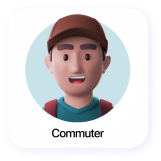
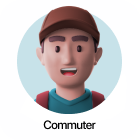
neumorphic account identifier

Changed region(s): [[0.1143, 0.0286, 0.8857, 0.9429]]

diff --git a/trackngo/lib/authentication/signup_screen.dart b/trackngo/lib/authentication/signup_screen.dart
@@ -1,4 +1,6 @@
 import 'package:flutter/material.dart';
+import 'package:trackngo/tabPages/home_tab.dart';
+import 'package:flutter_neumorphic/flutter_neumorphic.dart';
 
 class SignUpScreen extends StatefulWidget {
   const SignUpScreen({super.key});
@@ -10,6 +12,7 @@ class SignUpScreen extends StatefulWidget {
 class _SignUpScreenState extends State<SignUpScreen> {
   TextEditingController _emailController = TextEditingController();
   TextEditingController _passwordController = TextEditingController();
+  String? selectedImage;
 
   @override
   Widget build(BuildContext context) {
@@ -36,13 +39,69 @@ class _SignUpScreenState extends State<SignUpScreen> {
               Row(
                 mainAxisAlignment: MainAxisAlignment.center,
                 children: [
-                  Image.asset(
-                    "images/commuter.png",
-                    width: 140,
+                  GestureDetector(
+                    onTap: () {
+                      setState(() {
+                        selectedImage = 'images/commuter.png';
+                      });
+                    },
+                    child: Neumorphic(
+                      margin: const EdgeInsets.all(5),
+                      style: NeumorphicStyle(
+                        boxShape: NeumorphicBoxShape.roundRect(
+                            BorderRadius.circular(20)),
+                        depth: 5,
+                        lightSource: LightSource.topLeft,
+                        color: Colors.white,
+                        shadowDarkColor: selectedImage == 'images/commuter.png'
+                            ? Color(0xFF81B49B)
+                            : Color(0xFFDFDFDF),
+                        shadowLightColor: selectedImage == 'images/commuter.png'
+                            ? Color(0xFF81B49B)
+                            : Color(0xFFDFDFDF),
+                      ),
+                      child: Container(
+                        decoration: BoxDecoration(
+                          borderRadius: BorderRadius.circular(250),
+                        ),
+                        child: Image.asset(
+                          'images/commuter.png',
+                          width: 140,
+                        ),
+                      ),
+                    ),
                   ),
-                  Image.asset(
-                    "images/driver.png",
-                    width: 140,
+                  GestureDetector(
+                    onTap: () {
+                      setState(() {
+                        selectedImage = 'images/driver.png';
+                      });
+                    },
+                    child: Neumorphic(
+                      margin: const EdgeInsets.all(5),
+                      style: NeumorphicStyle(
+                        boxShape: NeumorphicBoxShape.roundRect(
+                            BorderRadius.circular(20)),
+                        depth: 5,
+                        lightSource: LightSource.topLeft,
+                        color: Colors.white,
+                        shadowDarkColor: selectedImage == 'images/driver.png'
+                            ? Color(0xFF81B49B)
+                            : Color(0xFFDFDFDF),
+                        shadowLightColor: selectedImage == 'images/driver.png'
+                            ? Color(0xFF81B49B)
+                            : Color(0xFFDFDFDF),
+                      ),
+                      child: Container(
+                        decoration: BoxDecoration(
+                          borderRadius: BorderRadius.circular(250),
+                        ),
+                        child: Image.asset(
+                          'images/driver.png',
+                          width: 140,
+                        ),
+                      ),
+                    ),
                   ),
                 ],
               ),
